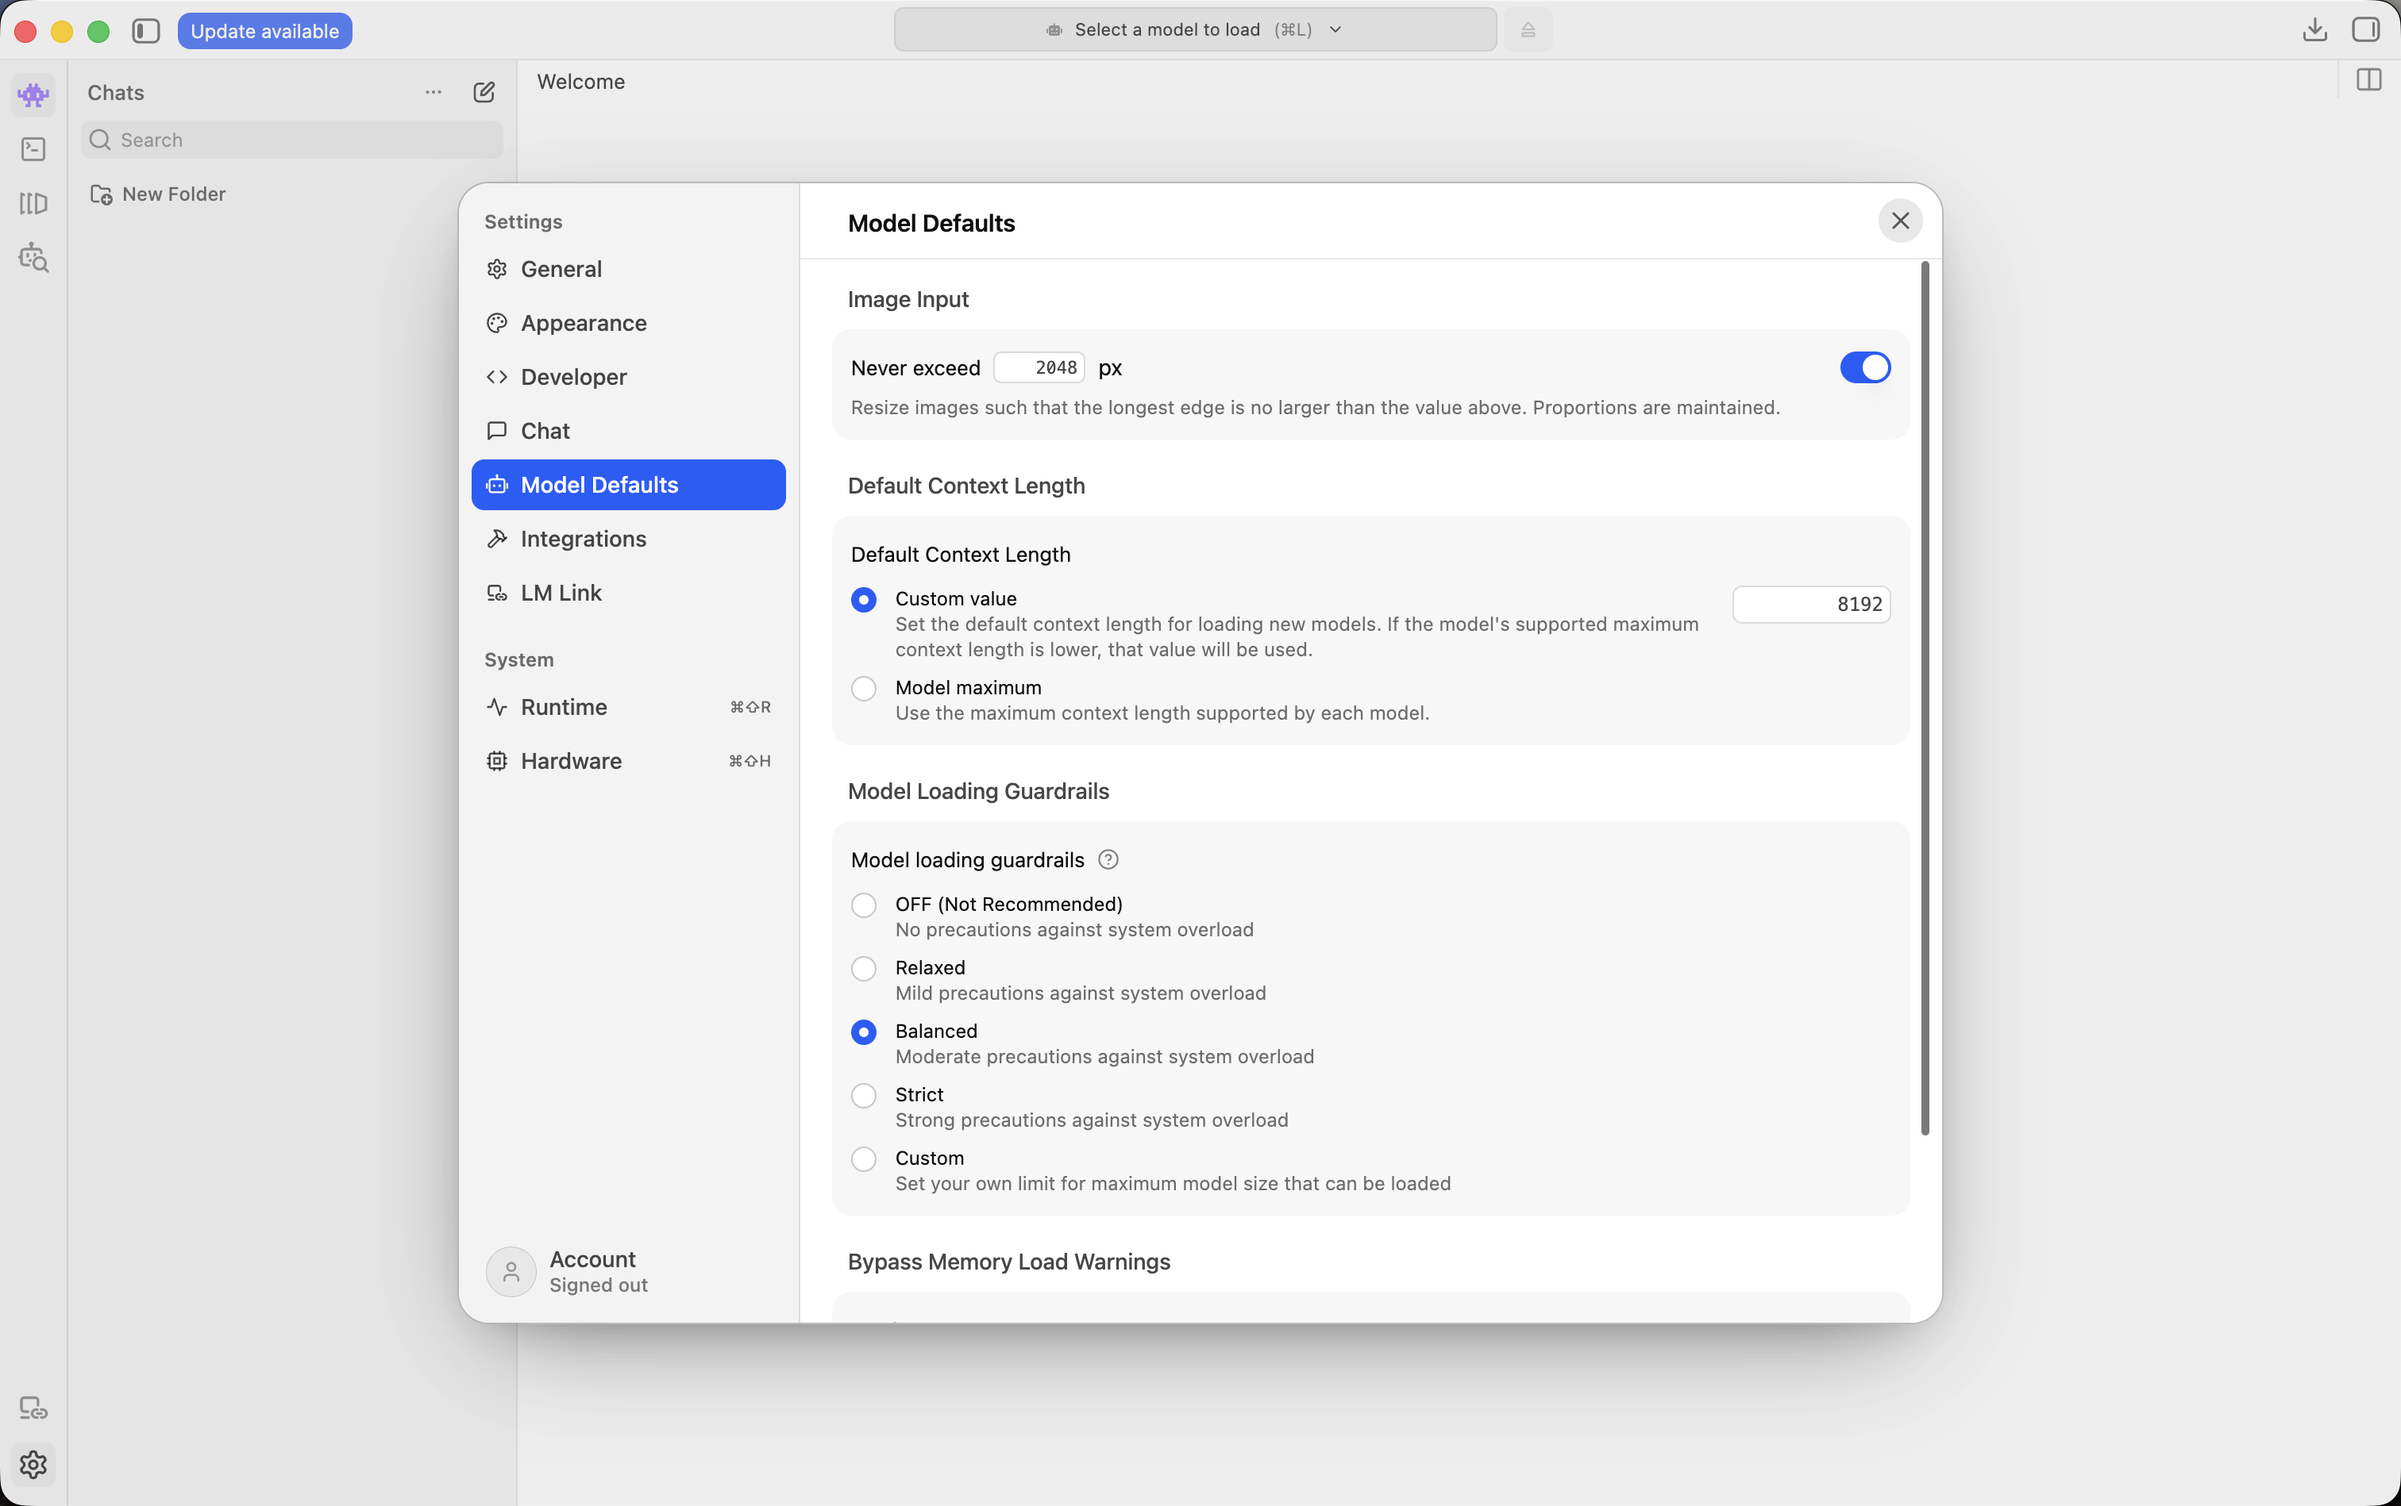
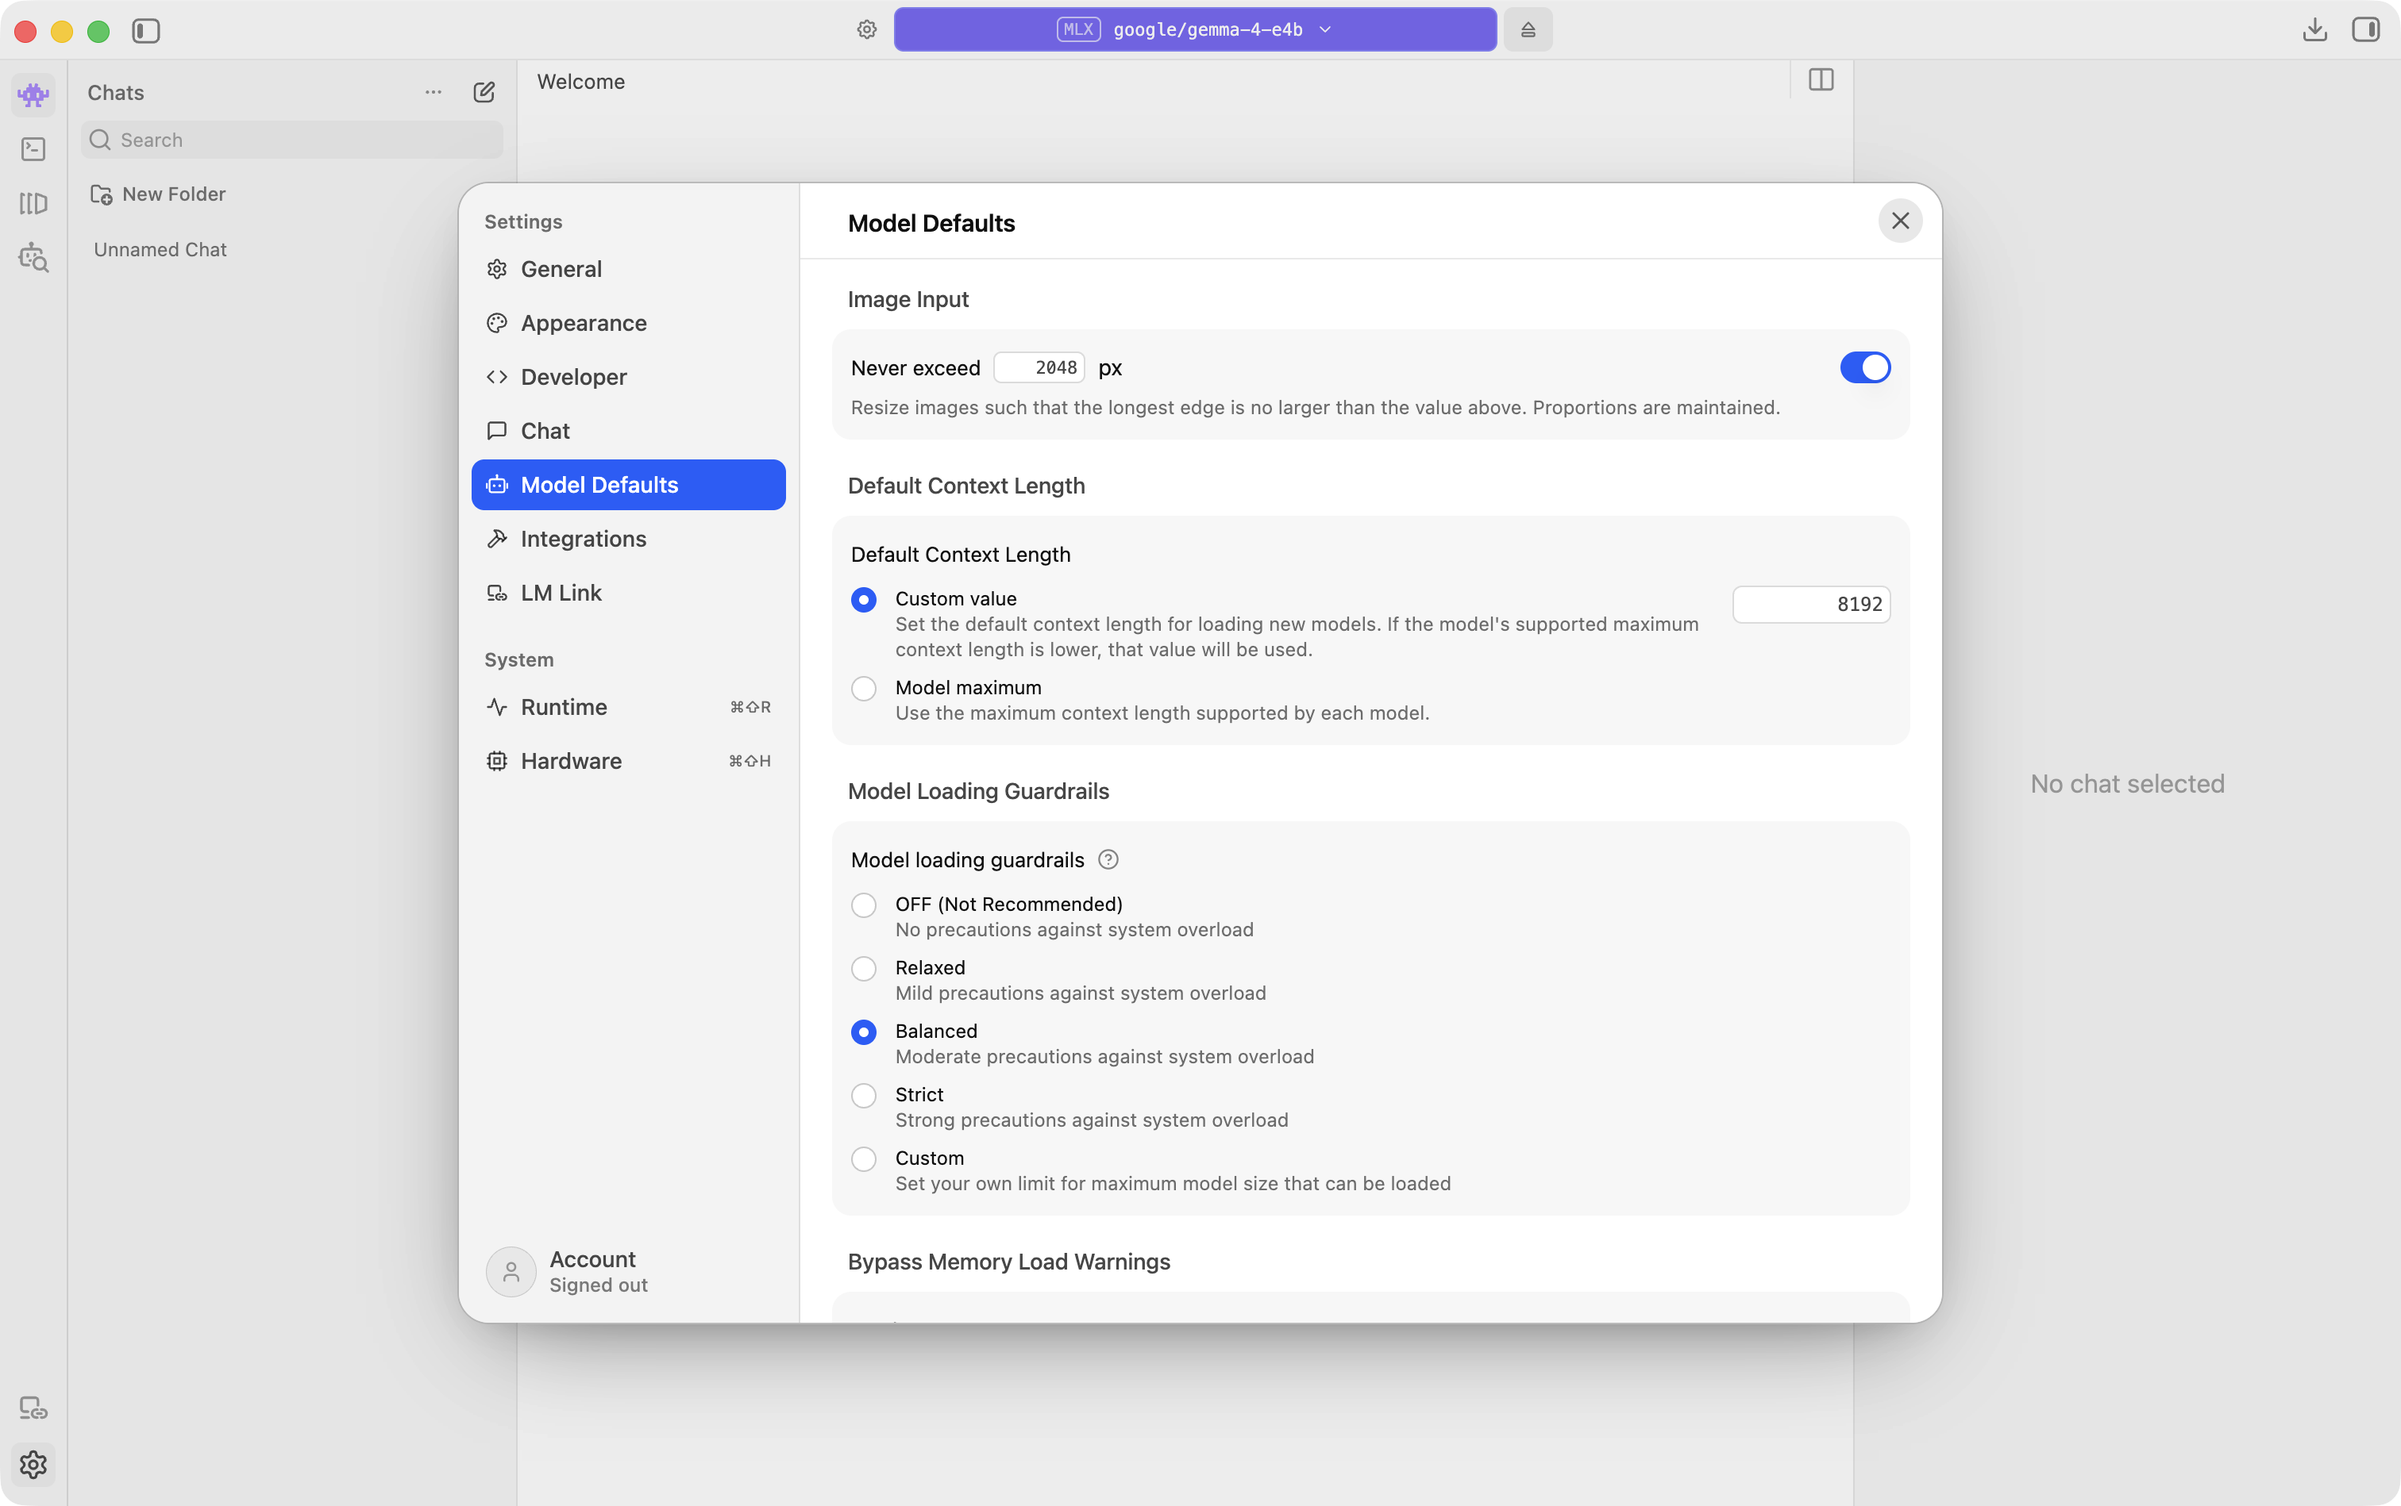
Update LM Studio documentation to reflect model name change from Qwen3.5 9B to Gemma 4 E4B. Adjusted instructions and screenshots across various sections for consistency and clarity.

diff --git a/LMStudo_Setup/setup.md b/LMStudo_Setup/setup.md
@@ -1,12 +1,12 @@
 # Setup LM Studio
 
-> **Note:** Do **not** install **Bionic** from the [lmstudio.ai](https://lmstudio.ai/) homepage — that is a different app. For this course, use **LM Studio** from [lmstudio.ai/download](https://lmstudio.ai/download).
+> Note: Do not install Bionic from the [lmstudio.ai](https://lmstudio.ai/) homepage. That is a different app. For this course, use LM Studio from [lmstudio.ai/download](https://lmstudio.ai/download).
 
 ## Download and Install
 
 1. Open [lmstudio.ai/download](https://lmstudio.ai/download).
-2. Click **Download** for your OS (e.g. **Download for Mac**).
-3. Open the installer / app and launch **LM Studio**.
+2. Click Download for your OS (for example, Download for Mac).
+3. Open the installer or app and launch LM Studio.
 
 ## First Launch Setup
 
@@ -14,58 +14,58 @@ The first time you open LM Studio, you will see a few setup screens.
 
 ### Your first model
 
-One screen offers a default model — recently **`gemma-4-e4b`** (~**6.86 GB**). You do **not** need it for this course.
+One screen offers a default model, recently `gemma-4-e4b` (~6.86 GB). This is the course model, Gemma 4 E4B.
 
 ![Your first model](firstmodel.png)
 
-- **Skip for now** (or **Skip →**) to continue without it, or
-- **Download gemma-4-e4b** if you want it later (it appears under **My Models**).
-
-If you download it, you can keep going while it finishes in the background:
+- Click Download gemma-4-e4b to get the course model. It shows up under My Models.
+- You can keep going while it finishes in the background.
 
 ![Downloading first model](downloadingmodel.png)
 
-Later we will download the course model, **Qwen3.5 9B**.
+If you skipped this screen, you can download Gemma 4 E4B from Discover later (see below).
 
 ### Advanced settings
 
-You may see an **Advanced settings** screen:
+You may see an Advanced settings screen:
 
 ![Advanced settings](advancedsettings.png)
 
 For this course:
 
-- Leave **Developer Mode** **off**.
-- **Start local LLM service on login** can stay **on**, or turn it **off** to save background resources.
+- Leave Developer Mode off.
+- Start local LLM service on login can stay on, or turn it off if you want to save background resources.
 
-Then click **Continue to LM Studio →**.
+Then click Continue to LM Studio →.
 
 ### Promo screens
 
-You may see feature promos (e.g. **LM Link**). These are optional — check **Do not show this again**, click **Next**, or close with **X**.
+You may see feature promos (for example, LM Link). These are optional. Check Do not show this again, click Next, or close with X.
 
 ![Promo screen](promoscreen.png)
 
 ## Download a Model
 
-1. Open **Discover → Model Search** (or press `⌘⇧M`).
+If you already downloaded `gemma-4-e4b` on first launch, you can skip to [Load the Model and Chat](#load-the-model-and-chat). Otherwise:
+
+1. Open Discover → Model Search (or press `⌘⇧M`).
 
 ![Model Search](modelsearch.png)
 
-2. Search for `Qwen3.5 9B`.
-3. Select the official **Qwen3.5 9B** result.
-4. Click **Download** (~5.98 GB; usually about **5 minutes**).
+2. Search for `Gemma 4 E4B`.
+3. Select the official Gemma 4 E4B result (by Google).
+4. Click Download (~6.86 GB; usually about 5 minutes).
 
 ![Model Download](modeldownload.png)
 
-If it is already downloaded, you may see **Use in New Chat** instead.
+If it is already downloaded, you may see Use in New Chat instead.
 
 ## Load the Model and Chat
 
-1. Click the **Chat** icon (or press `⌘1`).
-2. Open **Select a model to load** at the top (or press `⌘L`).
+1. Click the Chat icon (or press `⌘1`).
+2. Open Select a model to load at the top (or press `⌘L`).
 
 ![Select a model to load](chat.png)
 
-3. Choose **`Qwen3.5 9B`** and wait for it to load.
-4. Type a prompt and press **Enter**.
+3. Choose `Gemma 4 E4B` and wait for it to load.
+4. Type a prompt and press Enter.

diff --git a/Basics/Temperature/temperature.md b/Basics/Temperature/temperature.md
@@ -12,7 +12,7 @@ If you still have the first-run Advanced settings screen, you can turn Developer
 
 ## Open Model Parameters
 
-1. Open Chat (`⌘1`) and load Qwen3.5 9B if needed.
+1. Open Chat (`⌘1`) and load Gemma 4 E4B if needed.
 2. Click New chat (or select a chat). Model Parameters only show when a chat is selected.
 3. On the right sidebar, click the sliders icon (not the hammer).
 4. Under Custom Fields, turn Enable Thinking off (untick / toggle off).
@@ -23,15 +23,14 @@ Top K, Top P, and Min P act like safety filters. Loosen them before changing Tem
 
 Top K is how many word choices the model can pick from. A bigger number means more variety.
 
-Top P and Min P cut out lower-probability word choices. Turn both off so Temperature can show more variety.
+Top P cuts out lower-probability word choices. Turn it off so Temperature can show more variety. Min P can stay on.
 
 In the Sampling section:
 
 1. Set Top K Sampling to `100` (or higher).
 2. Uncheck Top P Sampling.
-3. Uncheck Min P Sampling.
 
-Your panel should look like this (Thinking off, Top K at `100`, Top P and Min P off):
+Your panel should look like this (Thinking off, Top K at `100`, Top P off):
 
 ![Top K, Top P, and Min P](sampling_panel.png)
 
@@ -45,12 +44,12 @@ Write a Java program for a calculator that can add, subtract, multiply, and divi
 ```
 
 3. Send the same prompt again. Note how similar the replies are.
-4. Change Temperature to `1.5` (type it in the box).
+4. Change Temperature to `2` (type it in the box).
 
 ![Temperature typed](temperature_typed.png)
 
 5. Send the same prompt twice more. Note how much the replies change.
 
-Example reply after Temperature is set to `1.5`:
+Example reply after Temperature is set to `2`:
 
 ![Temperature result](temperature_result.png)

diff --git a/Basics/Preprompting/preprompting.md b/Basics/Preprompting/preprompting.md
@@ -8,7 +8,7 @@ The user prompt is what you type in the chat box. The system prompt sits “abov
 
 ## Try it in LM Studio
 
-1. Open Chat (`⌘1`) and load Qwen3.5 9B.
+1. Open Chat (`⌘1`) and load Gemma 4 E4B.
 2. Start a New chat.
 3. On the right sidebar, open the sliders (Model Parameters), not the hammer.
 4. Find System Prompt (under Prompt / Prediction). Click Edit System Prompt… or the field to add instructions.

diff --git a/Basics/Tokens/tokens.md b/Basics/Tokens/tokens.md
@@ -15,7 +15,7 @@ Context length is the token budget for one chat turn: your system prompt + prior
 
 ## Try it in LM Studio
 
-1. Open Chat (`⌘1`) and load Qwen3.5 9B.
+1. Open Chat (`⌘1`) and load Gemma 4 E4B.
 2. Open Settings (`⌘,`) → Model Defaults. Note Default Context Length (e.g. `8192`), the token budget for chats.
 
 ![Context Length](context_length.png)
